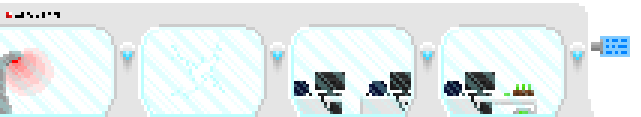
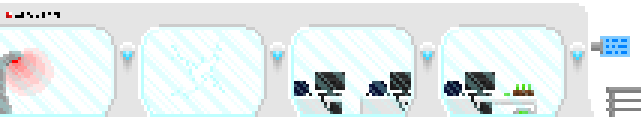
Added some more of the stage

Changed region(s): [[0.936, 0.7436, 1.0, 1.0]]

diff --git a/test.py b/test.py
@@ -20,6 +20,7 @@ http://programarcadegames.com/python_examples/sprite_sheets/
 """
  
 import pygame
+import random
  
 # Global constants
  
@@ -35,6 +36,7 @@ SCREEN_WIDTH  = 800
 SCREEN_HEIGHT = 600
 GAME_NAME = "Pygame Platformer"
 LEVEL_BG = (205, 210, 218)
+DEBUG = True
  
 class Player(pygame.sprite.Sprite):
     """
@@ -106,7 +108,7 @@ class Player(pygame.sprite.Sprite):
         if self.change_y == 0:
             self.change_y = 1
         else:
-            self.change_y += .35
+            self.change_y += .66
  
         # See if we are on the ground.
         if self.rect.y >= SCREEN_HEIGHT - self.rect.height and self.change_y >= 0:
@@ -152,7 +154,15 @@ class Platform(pygame.sprite.Sprite):
         self.image = pygame.Surface([width, height])
 
         if imageSrc != False:
-            self.image.fill(LEVEL_BG);
+            if DEBUG:
+                random.seed()
+                r = random.randint(0,255)
+                random.seed()
+                a = random.randint(0,255)
+                random.seed()
+                self.image.fill((a,r,random.randint(0,255)))
+            else:
+                self.image.fill(LEVEL_BG);
             self.image.blit(pygame.image.load(imageSrc).convert_alpha(), (0,0))
         else:
             self.image.fill(GREEN)
@@ -160,7 +170,7 @@ class Platform(pygame.sprite.Sprite):
         if collidable:
             self.rect = self.image.get_rect()
         else:
-            self.rect = pygame.Rect(0,0,0,0)
+            self.rect = pygame.Rect(100000,100000,0,0)
  
 class Level():
     """ This is a generic super-class used to define a level.
@@ -201,8 +211,8 @@ class Level():
     def shift_world(self, shift_x):
         """ When the user moves left/right and we need to scroll everything: """
         
-        if self.platform_list.sprites()[0].rect.x + shift_x > 0:
-            return False;
+        #if self.platform_list.sprites()[0].rect.x + shift_x > 0:
+        #    return False;
         
         # Keep track of the shift amount
         self.world_shift += shift_x
@@ -230,10 +240,15 @@ class Level_01(Level):
  
         # Array with width, height, x, and y of platform
         level = [
-            [603, 249, 0, SCREEN_HEIGHT-249, True, "level1/p1.png"],
             [390, 198, 603, SCREEN_HEIGHT-198, False, "level1/d3.png"],
             [641, 117, 0, SCREEN_HEIGHT-249-117, False, "level1/d1.png"],
+            [246, 33, 606, SCREEN_HEIGHT-246-33, False, "level1/d2.png"],
+            [53, 51, 859, SCREEN_HEIGHT-183-71, True, "level1/p3.png"],
+            [150, 81, 912, SCREEN_HEIGHT-183-71-33, True, "level1/p4.png"],
+            [273, 48, 603, SCREEN_HEIGHT-183-48, True, "level1/p5.png"],
             [252, 9, 603, SCREEN_HEIGHT-246, True, "level1/p2.png"],
+            [603, 249, 0, SCREEN_HEIGHT-249, True, "level1/p1.png"],
+            
         ]
  
         # Go through the array above and add platforms
@@ -278,7 +293,7 @@ def main():
  
     # Set the height and width of the screen
     size = [SCREEN_WIDTH, SCREEN_HEIGHT]
-    screen = pygame.display.set_mode(size) #, pygame.FULLSCREEN)
+    screen = pygame.display.set_mode(size)#, pygame.FULLSCREEN)
     pygame.mouse.set_visible(0)
     pygame.display.set_caption(GAME_NAME)
  
@@ -339,10 +354,10 @@ def main():
         if player.rect.right >= 500:
             diff = player.rect.right - 500
             player.rect.right = 500
+            #print(-diff)
             current_level.shift_world(-diff)
   
         # If the player gets near the left side, shift the world right (+x)
-        print(current_level.world_shift)
         if current_level.world_shift < 0:
             if player.rect.left <= 180:
                 diff = 180 - player.rect.left
@@ -371,7 +386,7 @@ def main():
         # ALL CODE TO DRAW SHOULD GO ABOVE THIS COMMENT
  
         # Limit to 60 frames per second
-        clock.tick(120)
+        clock.tick(40)
  
         # Go ahead and update the screen with what we've drawn.
         pygame.display.flip()
